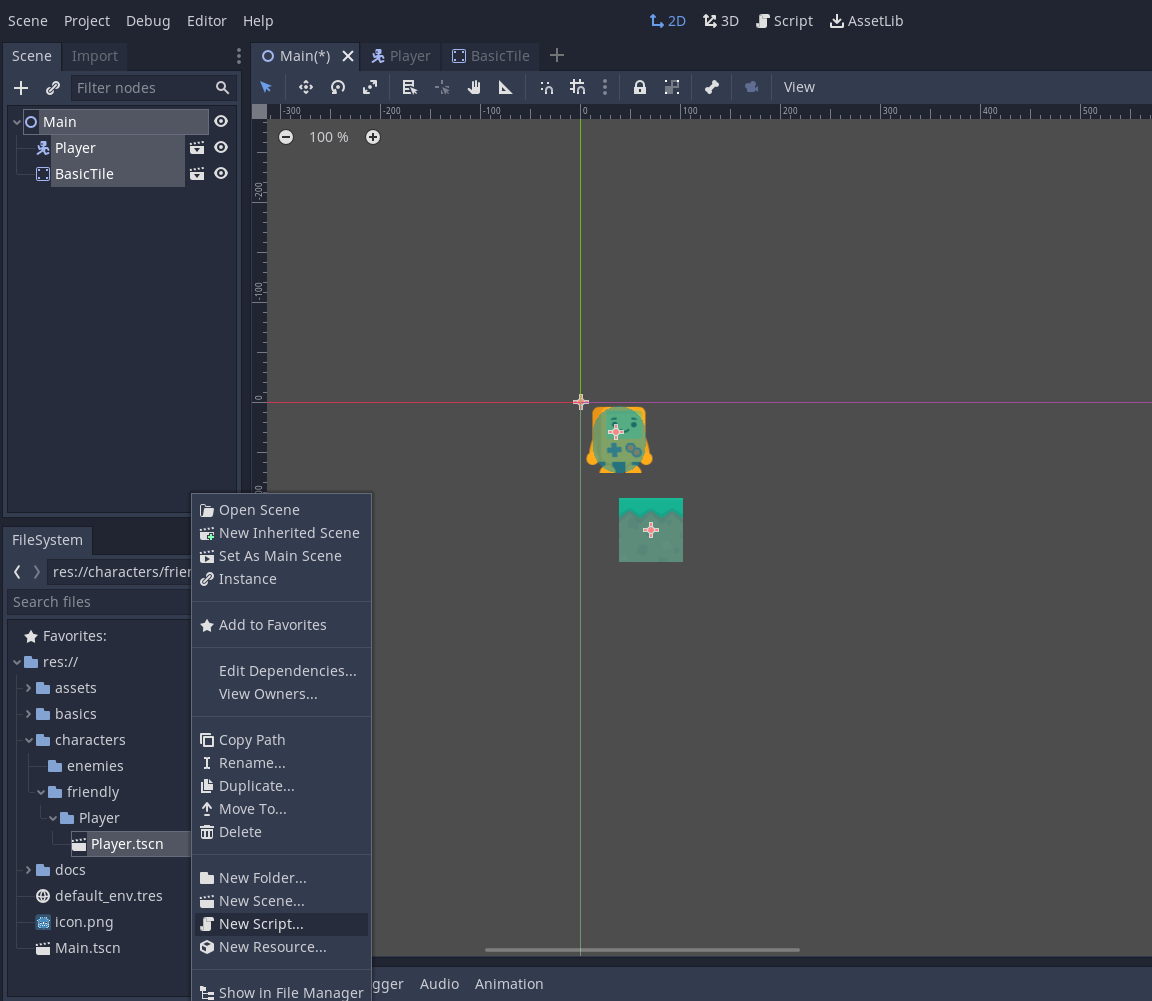
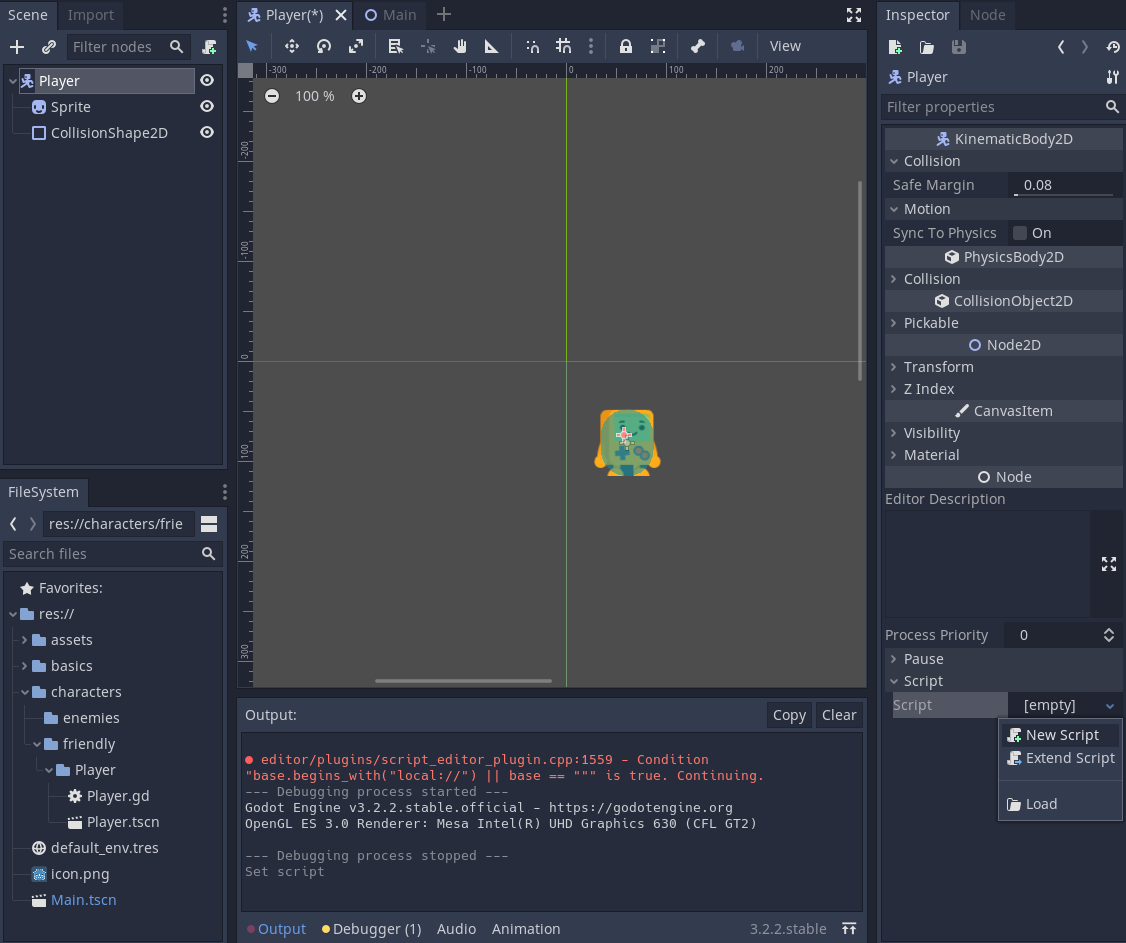
finished script chapter, add little movement script

diff --git a/docs/Script/index.md b/docs/Script/index.md
@@ -6,9 +6,11 @@
 
 1. [Design Philosophy](#DesignPhilosophy)
     - [Object-oriented design and composition](#)
-    - [Style Guide](#StyleGuide)
+    - [Style Guide](#)
     - [VCS](#VCS)
+    - [Lifecycle](#Lifecycle)
 2. [Practice](#Practice)
+
 3. [Source](#Source)
 
 ## Design Philosophy
@@ -50,10 +52,107 @@ Try to keep the name of your folder simple here some examples:
 Use Git. That's it.
 
 ## Practice
-
+To do some practice now we will make our character move.
 Let's take our scene and create a new script.
+
+Be careful to select the Player scene and not the child component.
 ![](./images/new-script-tmp.png)
 
+To keep things more clear let's name our script after our scene, so in this case Player and for the extension we will keep .gd. Click create and that's it.
+Now let's take a look at what Godot generated for us: 
+
+```py
+extends KinematicBody2D 
+
+# Declare member variables here. Examples:
+# var a = 2
+# var b = "text"
+
+
+# Called when the node enters the scene tree for the first time.
+func _ready():
+	pass # Replace with function body.
+
+
+# Called every frame. 'delta' is the elapsed time since the previous frame.
+#func _process(delta):
+#	pass
+
+```
+All of it is pretty self explanatory but I'll detail a little more some part to make sure we're on the same page:
+```py
+extends KinematicBody2D
+```
+- This bit is saying that our script Player.gd will be able utilize (nearly) all of the properties and functions defined in the class KinematicBody2D
+- Node is the base class for all scene objects.
+- A tree of nodes is called a scene. (i.e having a CollisionShape2D and a Sprite KinematicBody2D node => Player scene)
+```py
+# Called when the node enters the scene tree for the first time.
+func _ready():
+	pass # Replace with function body.
+```
+- Translated this bit mean: When a Node (see above) enter the Scene Tree (more or less the game loop) for the first time this function will be called. This is what we call Lifecycle but we will get more into it later.
+- The Scene Tree manages the game loop via a hierarchy of nodes, so by extension of scenes.
+
+
+To learn more about the class KinematicBody2D Godot has a great documentation, you just have to CTRL + click on it to open a new tab with all their is to know about this class.
+**USE IT IF YOU HAVE A DOUBT ABOUT ANYTHING** , you don't need to read the whole documentation but if you want to know if a certain function exist or a concept is describe in the class just open the documentation and CTRL + F away.
+![](./images/kinematic2D-docs.png)
+
+So as stated by the doc we have somes options in the class KinematicBody2D for moving our player, for our exemple I'll be using ```move_and_slide```.
+If we read what the doc as to say we can see this:
+
+> This method should be used in Node._physics_process() (or in a method called by Node._physics_process()), as it uses the physics step's delta value automatically in calculations. Otherwise, the simulation will run at an incorrect speed
+
+We can get more detail on ```_physics_process()``` if we click on it but the gist of it is that we need to overwrite this function to use move_and_slide in it. So let's do that. but before to give you all the tool to make this yourself we need to make a quick review of how to create control.
+
+Go to Projet > Projet Settings... > Input Map and add the action move_left, move_right you should find them in the list below
+![](./images/input-map.png)
+Click on the little + then Key and add the key you want to map to that action
+![](./images/key-mapping.png)
+
+Then to use those in your script you only need to do 
+```py
+Input.is_action_pressed("move_left")
+```
+which will give you ```true``` or ```false``` if the key is pressed or not.
+We will expand more upon controls for our characters in an another chapter.
+
+To do the exercice you'll also need to define the velocity, speed and gravity: 
+
+```py
+extends KinematicBody2D
+
+var velocity : Vector2 = Vector2(0, 0) 
+var speed : int = 200
+
+func _physics_process(delta):
+    # TODO: Make the player move
+	pass
+
+```
+Now with this you should be able to make a script for the player to move. To test your script you can run your scene here 
+![](./images/testing-scene.png)
+
+Here's how I did it:
+
+```py
+extends KinematicBody2D
+
+var velocity : Vector2 = Vector2(0, 0) 
+var speed : int = 200
+var gravity: int = 800
+
+func _physics_process(delta):
+	velocity.x = 0
+	if Input.is_action_pressed("move_left"):
+		velocity.x -= speed
+	if Input.is_action_pressed("move_right"):
+		velocity.x += speed
+	velocity = move_and_slide(velocity, Vector2.UP)
+	# velocity.y += gravity * delta
+
+```
 
 
 
